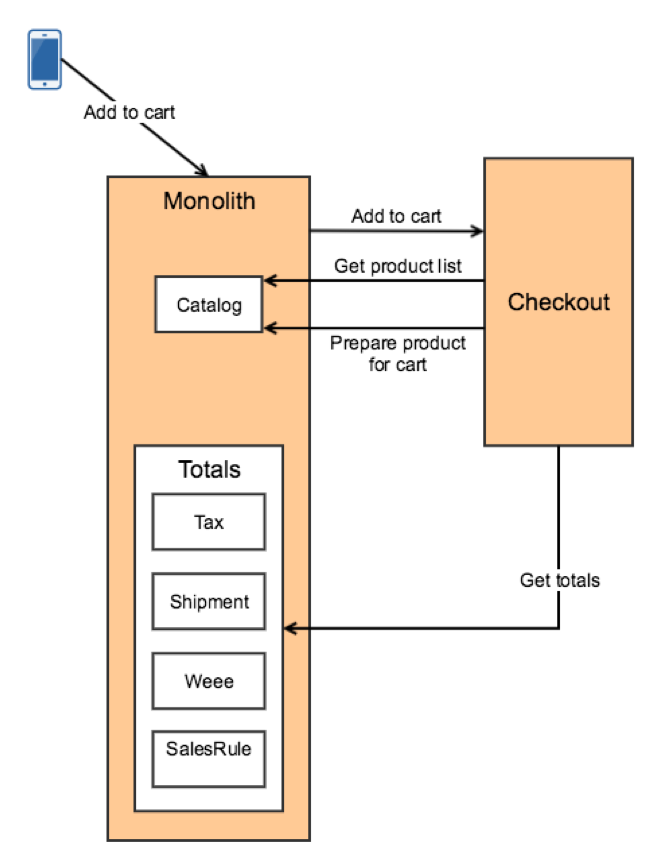
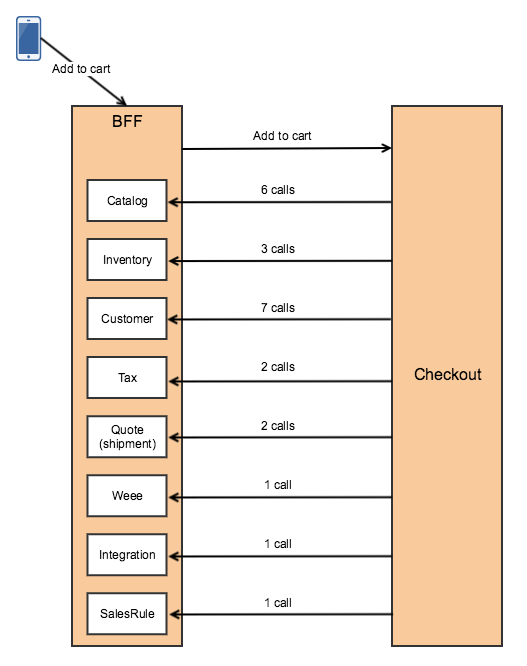
Update document

diff --git a/design-documents/checkout-service.md b/design-documents/checkout-service.md
@@ -12,24 +12,26 @@ Below is the diagram of communication after introducing boundaries between modul
 
 ![Current state](checkout-service/add-to-cart-current-state.png)
 
-Most likely after introducing boundaries between modules performance of the system will not be satisfiable and optimizations will have to be done. Some of the possible techniques for reducing number of calls described [here](https://github.com/magento/architecture/blob/6b60580f17be4e015229d9c0f0228d789aa3269c/design-documents/services-decomposition-guidelines.md)
+Most likely after introducing boundaries between modules performance of the system will not be optimal and optimizations will have to be done. Some of the possible techniques for reducing number of calls described [here](https://github.com/magento/architecture/blob/6b60580f17be4e015229d9c0f0228d789aa3269c/design-documents/services-decomposition-guidelines.md).
 
-Please see diagram below of communication between services after the following refactoring and optimizations
+Diagram demonstrates communication between services after the following refactoring and optimizations
 * Inventory checks disabled on quote load. Need to be done asynchronous on the shopping cart page and synchronously before placing order
-* Customer being passed with customer groups in add to cart operation
-* Authorization and authentication disabled
+* Customer being passed with customer groups in add to cart operation and shared between multiple service contracts using registry
+* Authorization and authentication disabled, need to be implemented as described in [proposal for authentication and authorization](https://github.com/magento/architecture/pull/48)
+* Loading of translation configuration is disabled as translation should be part of BFF
 * Created new service contracts for
-    * \Magento\Catalog\Model\Product\Type\AbstractType::prepareForCartAdvanced
     * \Magento\Quote\Model\Quote\TotalsCollector::collect
     * Magento\Quote\Api\CartRepositoryInterface::save
 * Misc changes to avoid unnecessary initialization/queries, for instance \Magento\Catalog\Model\Product::getCustomAttributes
-* Missing fields added to interfaces to make hydration/extraction possible when sending data through the network
+* Missing fields added to interfaces to make hydration/extraction working for all of the fields for the purpose of sending data through the network
 * Websites/stores and directory related logic skipped
+* \Magento\Catalog\Model\Product\Type\AbstractType::prepareForCartAdvanced skipped, checkout service should receive product will all necessary attributes and prepare for cart logic should be in cart service; catalog service may expose method to get product with all data needed in cart
 * New modules introduced SalesProxy, QuoteProxy, QuoteApi, MultishippingProxy, CustomerProxy, CatalogProxy, CheckoutProxy, PaymentProxy, PaypalProxy
+
 
 ![First iteration](checkout-service/add-to-cart-first-iteration.png)
 
-System makes 4 calls and ~2 times slower than monolith. After adding caching of get product list request, it would probably be 1.5 slower. Additional optimization that can be made is to move prepare for cart logic to checkout service.
+System makes 4 calls and ~2 times slower than monolith. After adding caching of get product list request, it would probably be 1.5 slower.
 
 After moving more parts of the system to services, communication may looks something like this.
 
@@ -48,25 +50,39 @@ Currently Quote module is responsible for creating an order. Need to move this r
 
 BFF will be responsible for loading quote and managing the transaction. If order placing failed, no additional transactions need to be rolled back after first iteration as all transactions being performed on BFF. If order placing successful, but  removing quote failed, we would need to retry removing quote instead of rolling back. Mechanism of retrying of failed operations is a general concern and should be discussed separately.
 
+## File Uploading
+
+It is possible to allow user upload file for product option of type file. Checkout service should be responsible for storing these files. When user uploads file, BFF should receive the file and send to checkout service. Checkout service then need to receive a file and store it locally or use another service to store the file. When file need to be send to the user, BFF would retrieve file from checkout service via separate API and cache it locally.
+
+There are 3 main options for storing files
+* Use clod provided solution
+* Mount network file system
+* Create separate service for storing files
+
+In the last 2 options would need to create solution for replication and scalability, so the first option might be the easiest and more robust. This question can be explored more in the separate proposal.
+
 ## Prototype Limitations
 
 * Add to cart flow with simple product without options, main totals (some totals might be missing or not add up correctly) and guest customer
 * Place order scenario is functional (basic flow, critical data captured)
 * Some functionality that got broken and looked easy to fix has been left broken
+* Checkout service still contains all of the modules
 
-## Backwards incompatible changes
+## Backwards Incompatible Changes
 
 * Adding fields to interfaces
 * Introducing new service contracts in monolith that going to become a service in the future (possibly can keen backwards compatible by making these service contracts use the new service).
 * Adding new fields to service contracts, for instance passing customer in \Magento\Quote\Api\GuestCartItemRepositoryInterface::save. Potentially can keep backwards compatible by leaving monolith use old service contracts and when deployed as distributed setup new ones.
 * Most likely we don't want to send all of the data for entity over network. If we go with this approach we will have different sent of fields being passed in ase of monolith and distributed deployment.
+* Events potentially
+* Some service contracts
+    * Currently quote module responsible for saving an order but it should not be. Saving order should be responsibility of the order service (sales modules)
+    * \Magento\Bundle\Model\Product\Type::_prepareProduct logic will have to be moved to checkout service for efficiency, potentially can be done in backwards compatible way
 
 ## Open Questions
 
-* Instantiation of models for the entities that have EAV attributes leads to database queries.
-* BFF should not know about numeric quote identifiers.
+* Instantiation of models for the entities that have EAV attributes leads to database queries. A: Need to refactor models to be DTOs.
 * Format of the data API receives is different from the format service contracts use in some cases (for date for instance we expect string via API, but the actual interfaces use array). A: Leave external API for backwards compatibility, introduce new types for services.
-* Hydration/extraction for certain entities triggers initialization of resource models/queries to database, ProductInterface is one of the examples. A: Some of these interfaces should not be shared, quote should have it's own ProductInterface. What to do with backwards compatibility?
-* When adding product to cart for product option of type file we need to upload the file. A: Storage of these files can be responsibility of separate service.
-* A lot of fields are not part of the data interfaces. A: Add fields to interfaces or use extension attributes.
-* Number of connections to monolith increases until all of the services checkout service uses separated.
+* Hydration/extraction for certain entities triggers initialization of resource models/queries to database, ProductInterface is one of the examples. A: These interfaces can't be shared, need to investigate separately.
+* A lot of fields are not part of the data interfaces. A: Add fields to the interfaces.
+* BFF should not know about numeric quote identifiers.
